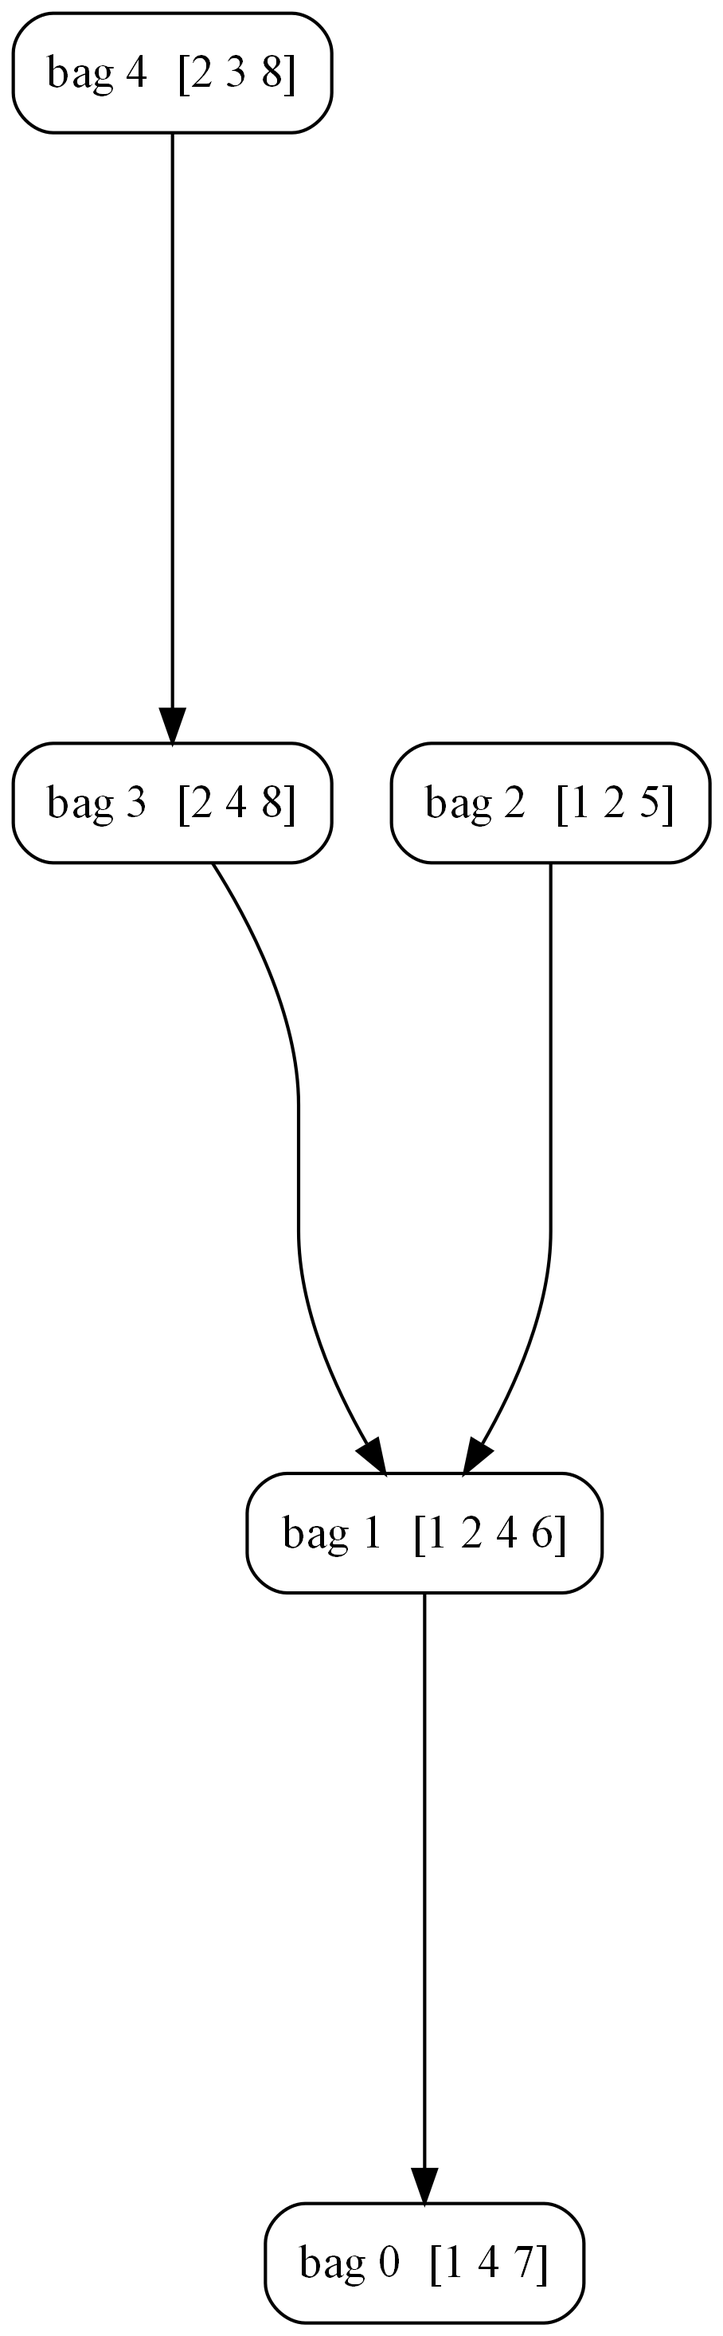
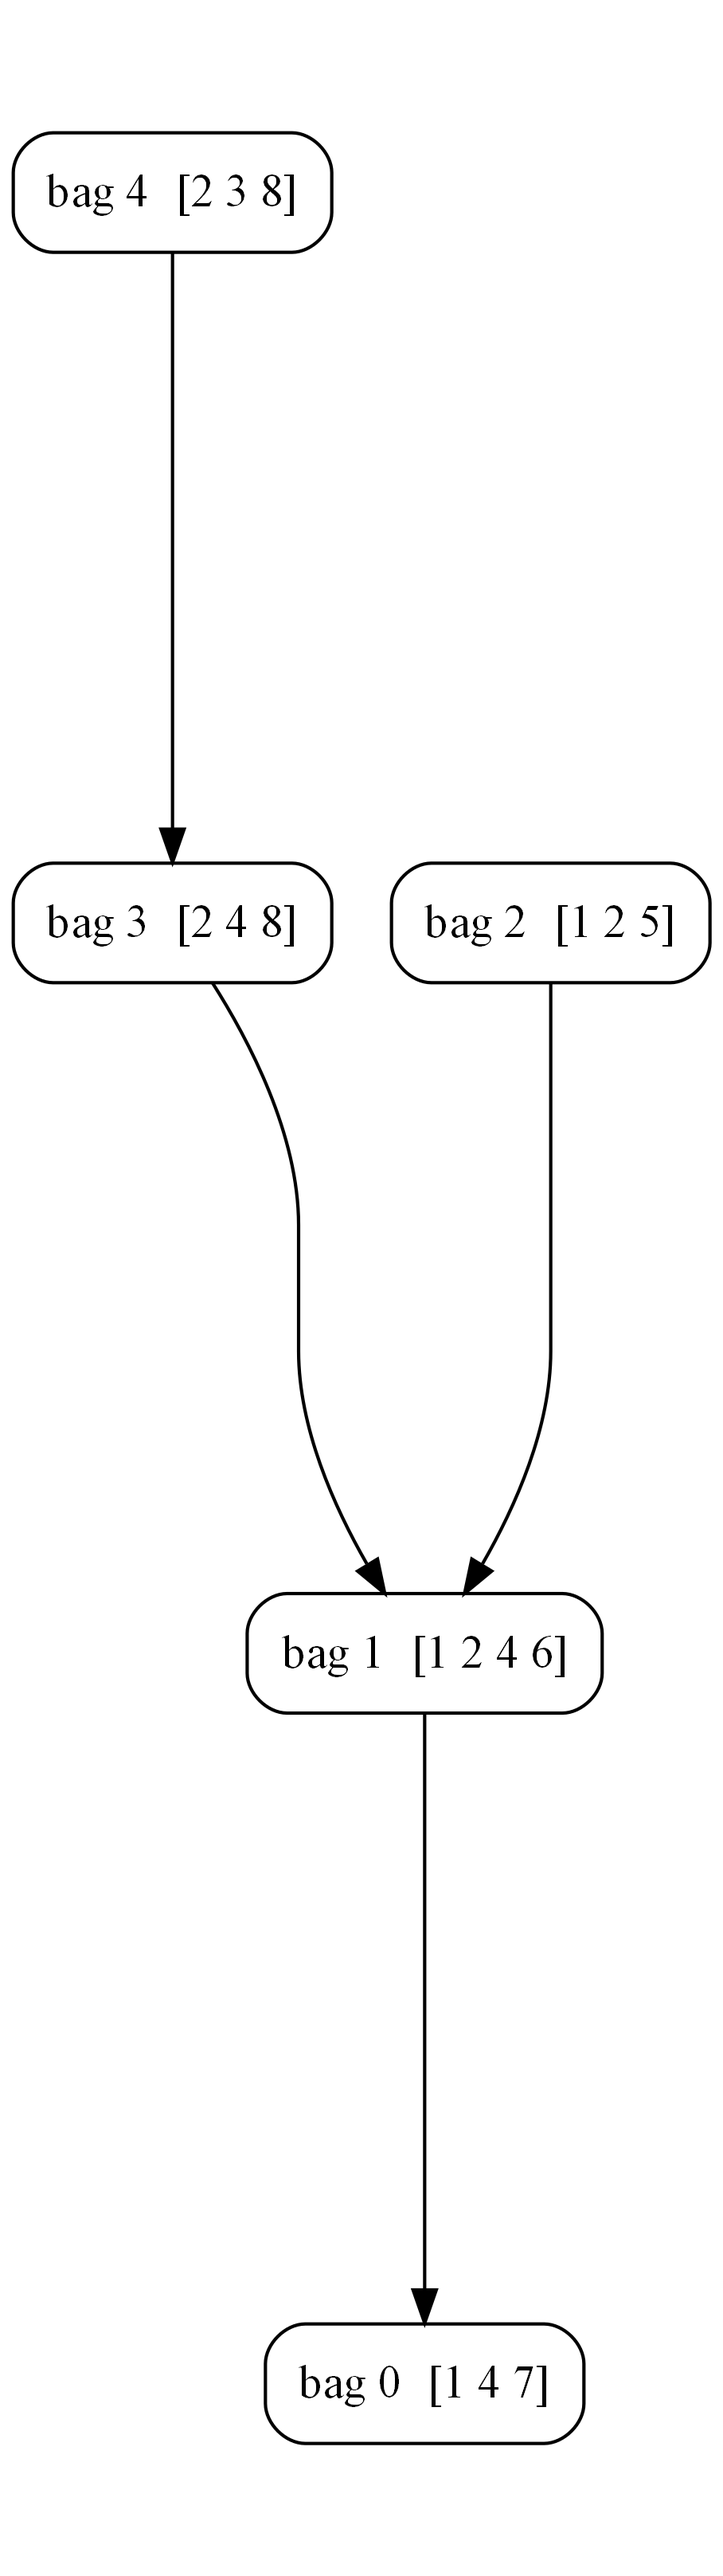
basic Timeline
basic node emphasis
adjusted margin around image to better position nodes near frame

diff --git a/satvisualization_repo/satvisu/graphvizSatVisu.py b/satvisualization_repo/satvisu/graphvizSatVisu.py
@@ -14,6 +14,10 @@ import numpy as np
 # import seaborn as sns
 
 
+def baseStyle(graph, node):
+    graph.node(node, fillcolor='white', penwidth="1.0")
+
+
 def emphasiseNode(graph, node, _fillcolor="yellow", _penwidth="2.5"):
     if _fillcolor:
         graph.node(node, fillcolor=_fillcolor)
@@ -99,13 +103,14 @@ def solutionNode(solutionTable, toplabel="", bottomlabel="", transpose=False):
 
 
 def main():
-    _filename = 'g41DigraphProgress'
+    _filename = 'g41DigraphProgress%d'
     s = Digraph(
         'structs',
         filename=_filename,
         strict=True,
         graph_attr={
-            'dpi': '300'},
+            'dpi': '300',
+            'margin': '0,0.5'},
         edge_attr={
             'minlen': '5'},
         node_attr={
@@ -123,10 +128,20 @@ def main():
 
     s.edges(
         [('bag4', 'bag3'), ('bag2', 'bag1'),
-         ('bag3', 'bag1'),
-            ('bag1', 'bag0')])
+         ('bag3', 'bag1'), ('bag1', 'bag0')])
 
-    s.render(view=True, format='png', filename=_filename)
+    TIMELINE = ['bag0', 'bag1', 'bag2', 'bag3', 'bag4', 'bag3',
+                'Join2~3', 'bag1', 'bag0']
+
+    for i, node in enumerate(TIMELINE):
+        if i == 0:
+            emphasiseNode(s, node)
+            s.render(view=True, format='png', filename=_filename % i)
+
+        else:
+            baseStyle(s, TIMELINE[i - 1])
+            emphasiseNode(s, node)
+            s.render(view=True, format='png', filename=_filename % i)
 
 
 def endresult():
